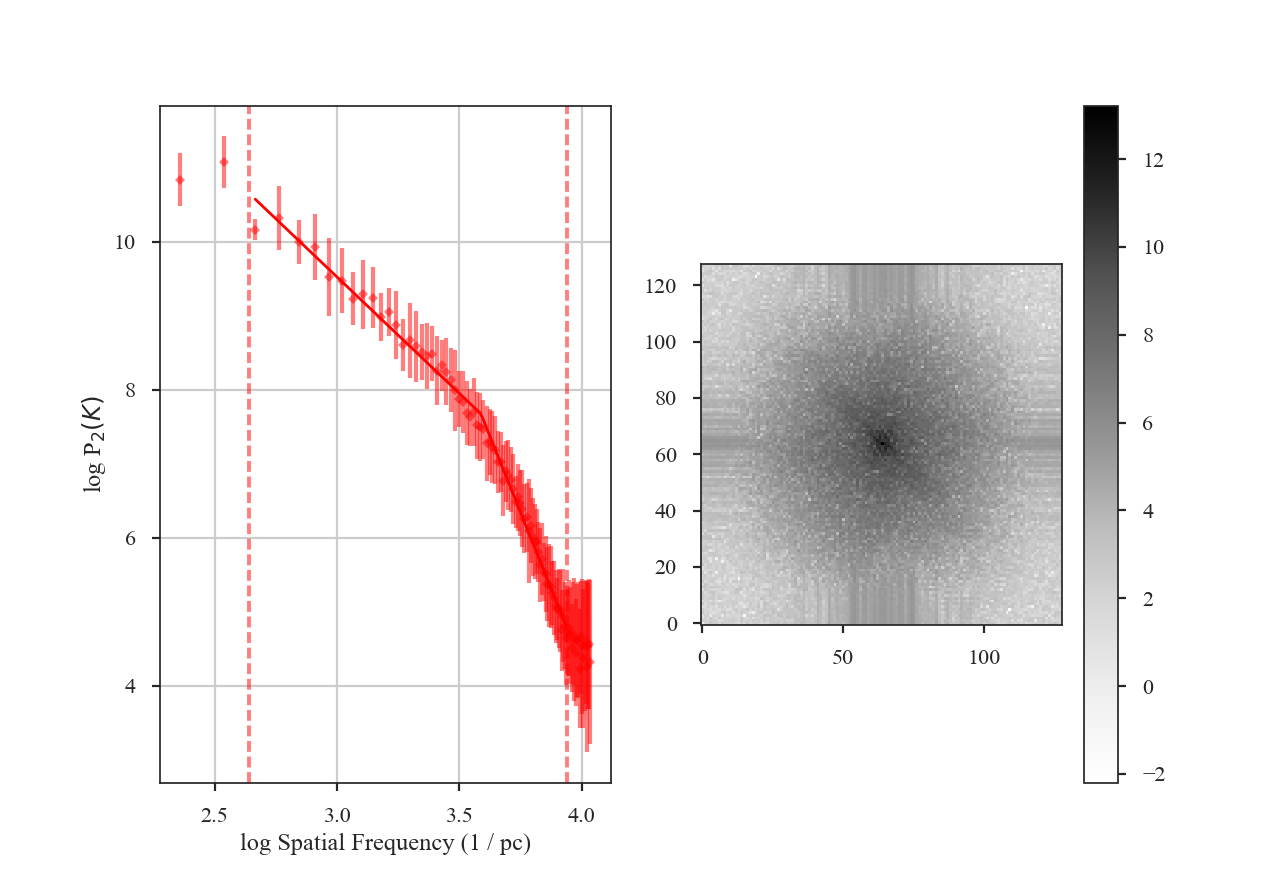
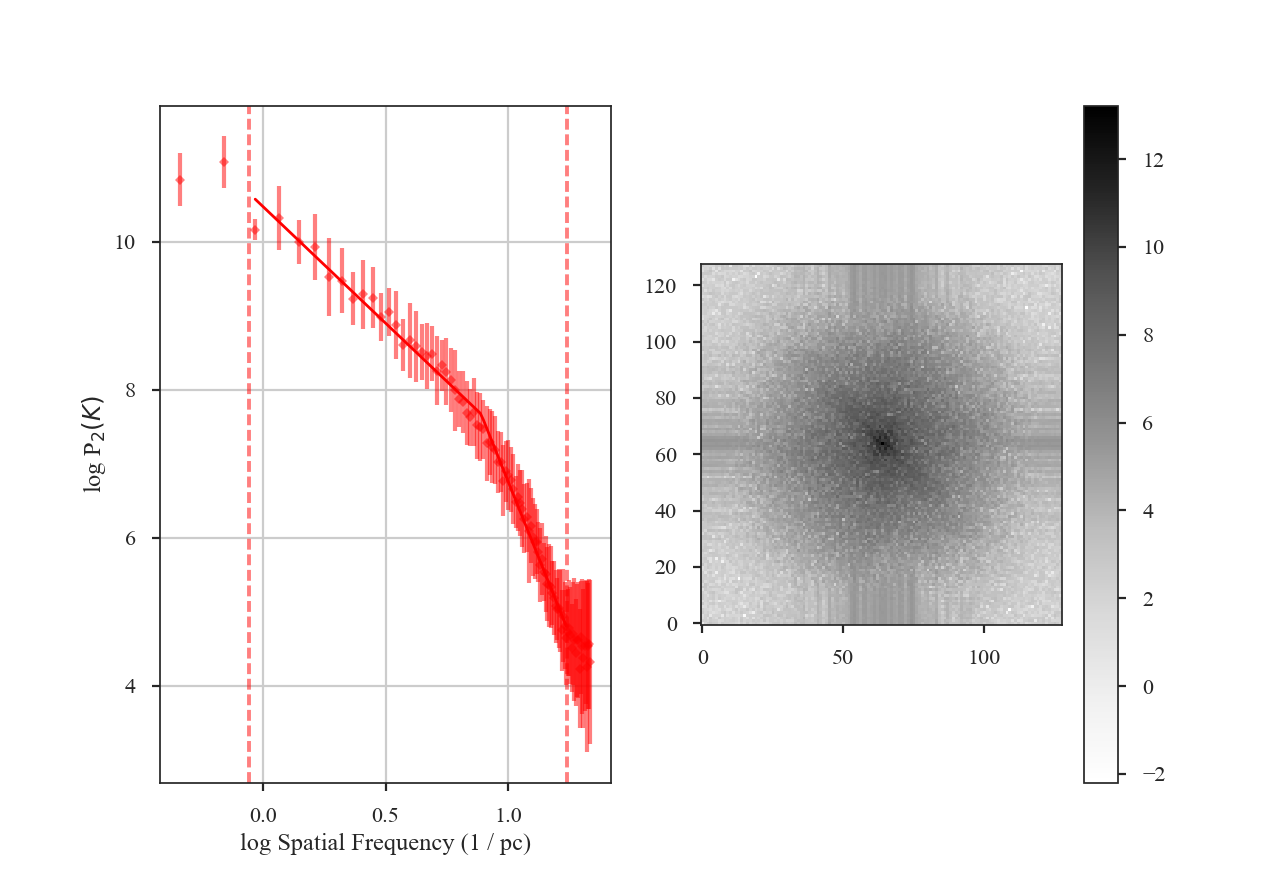
Update to a common distance and plots w/ the updated CDELT values

Changed region(s): [[0.25, 0.9205, 0.3125, 0.9511], [0.4375, 0.9205, 0.4688, 0.9511], [0.1875, 0.9205, 0.2188, 0.9511]]

diff --git a/docs/tutorials/statistics/delta_variance_example.rst b/docs/tutorials/statistics/delta_variance_example.rst
@@ -41,7 +41,7 @@ Then, we load in the data and the associated error array:
 
 Next, we initialize the `~turbustat.statistics.DeltaVariance` class:
 
-    >>> delvar = DeltaVariance(moment0, weights=moment0_err)  # doctest: +SKIP
+    >>> delvar = DeltaVariance(moment0, weights=moment0_err, distance=250 * u.pc)  # doctest: +SKIP
 
 The weight array is optional, but is recommended. Note that this is not the exact form of the weight array used by :ref:`Ossenkopf et al. 2008b <_ref-ossenkopf2008b>`; they use the square root of the number of elements along the line of sight used to create the integrated intensity map. This doesn't take into account the varying S/N of each element used, however. In the case with the simulated data, the two are nearly identical, since the noise value associated with each element is constant. If no weights are given, a uniform array of ones is used.
 
@@ -103,8 +103,33 @@ The entire process is performed through `~turbustat.statistics.DeltaVariance.run
 
 .. image:: images/delvar_design4_wlimits.png
 
-`xlow`, `xhigh`, and `xunit` can also be passed any angular unit, and since a distance was given, physical units can also be passed.
+`xlow`, `xhigh`, and `xunit` can also be passed any angular unit, and since a distance was given, physical units can also be passed. For example, using the previous example:
 
+    >>> delvar.run(verbose=True, xunit=u.pc, xlow=4 * u.pix, xhigh=30 * u.pix)  # doctest: +SKIP
+                                WLS Regression Results
+    ==============================================================================
+    Dep. Variable:                      y   R-squared:                       0.995
+    Model:                            WLS   Adj. R-squared:                  0.995
+    Method:                 Least Squares   F-statistic:                     2726.
+    Date:                Tue, 04 Jul 2017   Prob (F-statistic):           1.91e-17
+    Time:                        12:47:27   Log-Likelihood:                 40.177
+    No. Observations:                  16   AIC:                            -76.35
+    Df Residuals:                      14   BIC:                            -74.81
+    Df Model:                           1
+    Covariance Type:            nonrobust
+    ==============================================================================
+                     coef    std err          t      P>|t|      [0.025      0.975]
+    ------------------------------------------------------------------------------
+    const          1.8838      0.015    121.613      0.000       1.851       1.917
+    x1             1.0584      0.020     52.211      0.000       1.015       1.102
+    ==============================================================================
+    Omnibus:                        0.637   Durbin-Watson:                   0.560
+    Prob(Omnibus):                  0.727   Jarque-Bera (JB):                0.609
+    Skew:                          -0.386   Prob(JB):                        0.738
+    Kurtosis:                       2.438   Cond. No.                         11.5
+    ==============================================================================
+
+.. image:: images/delvar_design4_physunits.png
 Since the Delta-variance is based on a series of convolutions, there is a choice for how the boundaries should be treated. This is set by the `boundary` keyword in `~turbustat.statistics.DeltaVariance.run`. By default, `boundary='wrap'` as is appropriate for simulated data in a periodic box. If the data is *not* periodic in the spatial dimensions, `boundary='fill'` should be used. This mode pads the edges of the data based on the size of the convolution kernel used.
 
 

diff --git a/docs/tutorials/statistics/mvc_example.rst b/docs/tutorials/statistics/mvc_example.rst
@@ -140,8 +140,30 @@ Many of the techniques in TurbuStat are derived from two-dimensional power spect
 
 Finally, the frequency units of the final plot (`xunit`) and the units of `low_cut` and `high_cut` can be given in angular units, as well as physical units when a distance is given. For example:
 
-    >>> mvc = MVC(centroid, moment0, lwidth, distance=500 * u.pc)  # doctest: +SKIP
+    >>> mvc = MVC(centroid, moment0, lwidth, distance=250 * u.pc)  # doctest: +SKIP
     >>> mvc.run(verbose=True, xunit=u.pc**-1, low_cut=0.02 / u.pix, high_cut=0.1 / u.pix)  # doctest: +SKIP
+                                OLS Regression Results
+    ==============================================================================
+    Dep. Variable:                      y   R-squared:                       0.952
+    Model:                            OLS   Adj. R-squared:                  0.948
+    Method:                 Least Squares   F-statistic:                     255.9
+    Date:                Sun, 16 Jul 2017   Prob (F-statistic):           6.22e-10
+    Time:                        14:18:45   Log-Likelihood:                 10.465
+    No. Observations:                  15   AIC:                            -16.93
+    Df Residuals:                      13   BIC:                            -15.51
+    Df Model:                           1
+    Covariance Type:            nonrobust
+    ==============================================================================
+                     coef    std err          t      P>|t|      [0.025      0.975]
+    ------------------------------------------------------------------------------
+    const         16.7121      0.220     75.957      0.000      16.237      17.187
+    x1            -2.7357      0.171    -15.997      0.000      -3.105      -2.366
+    ==============================================================================
+    Omnibus:                        0.814   Durbin-Watson:                   2.077
+    Prob(Omnibus):                  0.666   Jarque-Bera (JB):                0.614
+    Skew:                          -0.445   Prob(JB):                        0.736
+    Kurtosis:                       2.564   Cond. No.                         13.5
+    ==============================================================================
 
 .. image:: images/mvc_design4_physunits.png
 

diff --git a/docs/tutorials/statistics/pspec_example.rst b/docs/tutorials/statistics/pspec_example.rst
@@ -26,7 +26,7 @@ And we load in the data:
 
 The power spectrum is computed using:
 
-    >>> pspec = PowerSpectrum(moment0, distance=500 * u.pc)  # doctest: +SKIP
+    >>> pspec = PowerSpectrum(moment0, distance=250 * u.pc)  # doctest: +SKIP
     >>> pspec.run(verbose=True, xunit=u.pix**-1)  # doctest: +SKIP
                                 OLS Regression Results
     ==============================================================================
